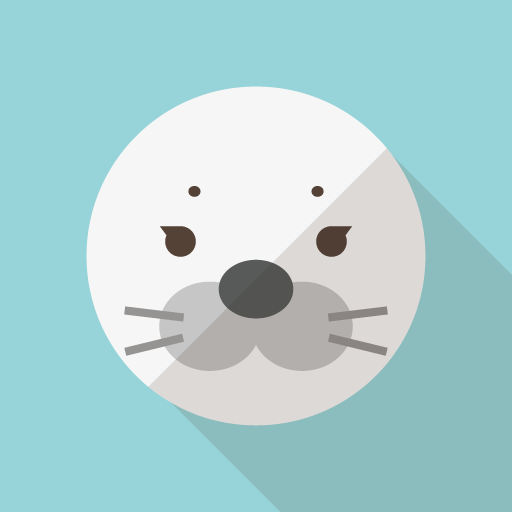
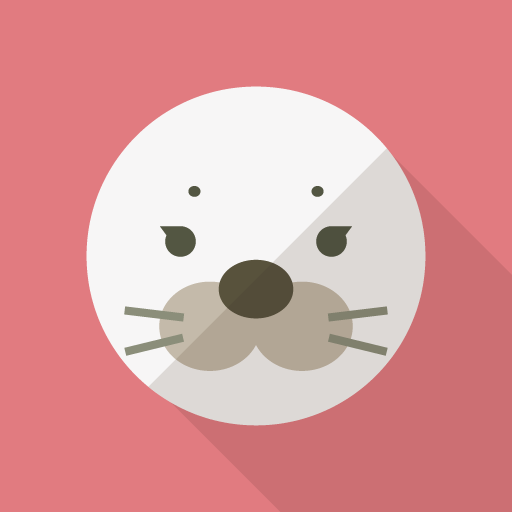
12

diff --git a/app/assets/stylesheets/home.scss b/app/assets/stylesheets/home.scss
@@ -38,7 +38,7 @@ form input[type="submit"] {
 /* 共通レイアウト ================================ */
 body {
   color: #2d3133;
-  background-color: #3ecdc6;
+  background-color: #FF934B;
   margin: 0;
   min-height: 1vh;
 }
@@ -49,7 +49,7 @@ body {
   width: 100%;
   height: auto;
   min-height: 100%;
-  background-color: #f5f8fa;
+  background-color: #FFE7D8;
 }
 
 .container {
@@ -123,14 +123,16 @@ header {
   height: auto;
   min-height: 100%;
   color: white;
-  background-color: #3ecdc6;
+  background-color: #FF934B;
   background-repeat: no-repeat;
   background-position: center 50%;
   background-size: cover;
+  background-image: url("/background.jpg");
 }
 
 .top-message {
   position: relative;
+  color: #ED6712;
 }
 
 .top-main h2 {
@@ -178,7 +180,7 @@ header {
   font-weight: 300;
   margin: 60px 0 20px;
   font-size: 48px;
-  color: #bcc8d4;
+  color: #FF934B;
 }
 
 .form-body {
@@ -207,7 +209,7 @@ header {
 }
 
 .form input[type="submit"] {
-  background-color: #3ecdc6;
+  background-color: #FF934B;
   color: white;
   cursor: pointer;
   font-weight: 300;
@@ -228,7 +230,7 @@ header {
 .flash {
   padding: 10px 0;
   color: white;
-  background: rgb(251, 170, 88);
+  background: #C70230;
   text-align: center;
   position: absolute;
   top: 64px;

diff --git a/app/assets/stylesheets/users.scss b/app/assets/stylesheets/users.scss
@@ -28,7 +28,7 @@
 }
 
 .user-name a:hover {
-  color: #3ecdc6;
+  color: #FF934B;
 }
 
 .user-left {
@@ -97,7 +97,7 @@
 }
 
 .user-tabs li.active {
-  border-bottom: 2px solid #3ecdc6;
+  border-bottom: 2px solid #FF934B;
 }
 
 .user-tabs li.active a {

diff --git a/app/assets/stylesheets/events.scss b/app/assets/stylesheets/events.scss
@@ -19,7 +19,7 @@
 }
 
 .event-user-name a:hover {
-  color: #3ecdc6;
+  color: #FF934B;
 }
 
 .event-left {
